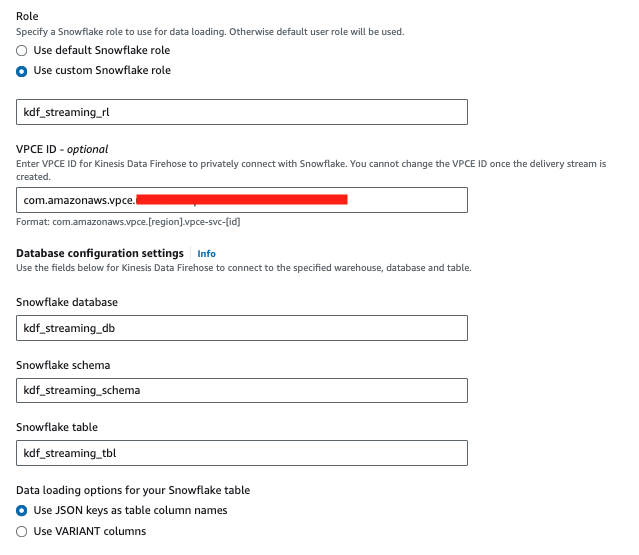
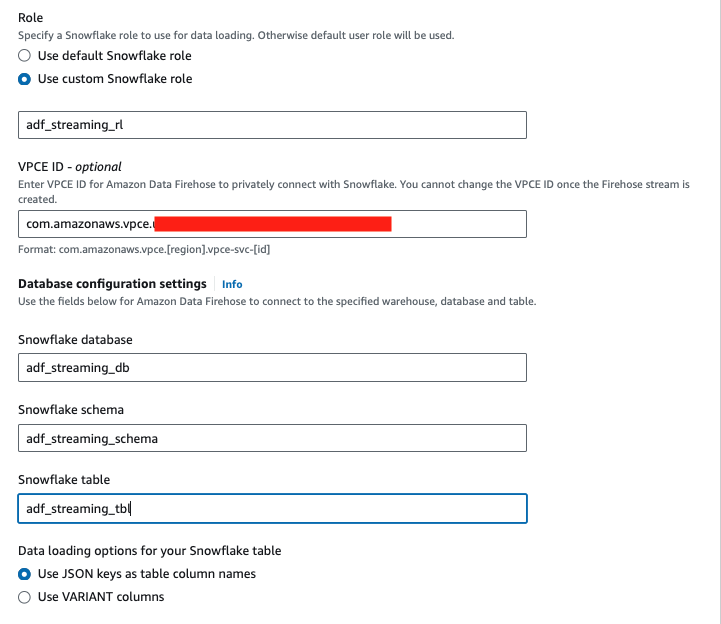
Modified KDF to ADF in a few diagrams (#1119)
* update to latest claat

* update to latest claat

* update to latest claat

* update to latest claat

* update to latest claat

* update to latest claat

* update to latest claat

* update to latest claat

* update to latest claat

* update to latest claat

* update to latest claat

* update to latest claat

* update to latest claat

diff --git a/site/sfguides/src/getting_started_with_snowflake_and_aws_kdf/getting_started_with__snowflake_and_aws_kdf.md b/site/sfguides/src/getting_started_with_snowflake_and_aws_kdf/getting_started_with__snowflake_and_aws_kdf.md
@@ -291,9 +291,11 @@ In the `Source` section, select `Direct PUT` from the drop-down menu.
 
 In the `Destination` section, select `Snowflake` from the drop-down menu.
 
-Type in a name for the delivery stream.
+Type in a name for the `Firehose stream name`.
 
 ![](assets/kdf-stream-1.png)
+
+Skip `Transform records` setup.
 
 For `Snowflake account URL`, run this SQL command in your Snowflake account to obtain the value:
 ```
@@ -424,7 +426,7 @@ create or replace view flights_vw
 FROM adf_streaming_tbl;
 ```
 
-The SQL command creates a view, convert timestamps to different time zones, and use Snowflake's [Geohash function](https://docs.snowflake.com/en/sql-reference/functions/st_geohash.html) to generate geohashes that can be used in time-series visualization tools such as Grafana.
+The SQL command creates a view, converts timestamps to different time zones, and use Snowflake's [Geohash function](https://docs.snowflake.com/en/sql-reference/functions/st_geohash.html) to generate geohashes that can be used in time-series visualization tools such as Grafana.
 You can also easily calculate the distance in miles between two geo locations. In above example, the `st_distance` function is used to calculate the distance between an airplane and San Francisco Airport.
 
 Let's query the view `flights_vw` now.
@@ -436,7 +438,7 @@ As a result, you will see a nicely structured output with columns derived from t
 ![](assets/flight_view.png)
 
 <!---------------------------->
-## Conclusions
+## Conclusion
 Duration: 5
 
 In this lab, we built a demo to show how to ingest real-time data using Amazon Data Firehose with low latency. We demonstrated this using an ADF
